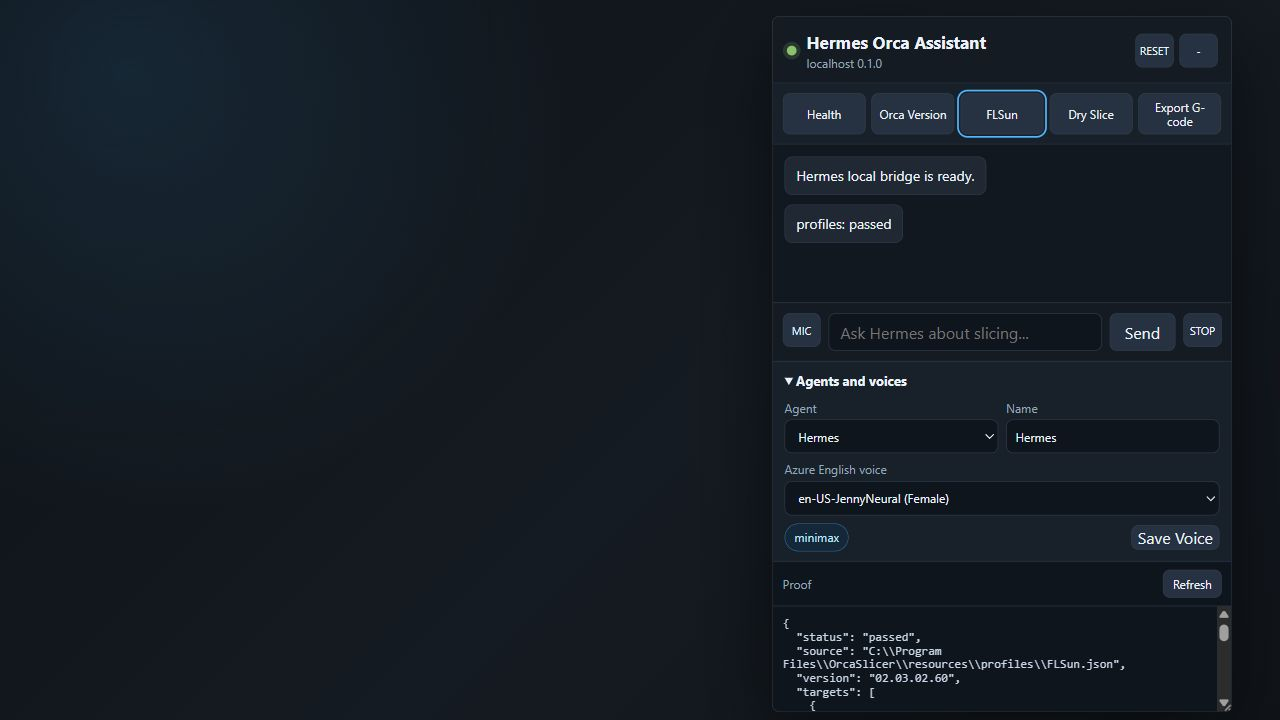
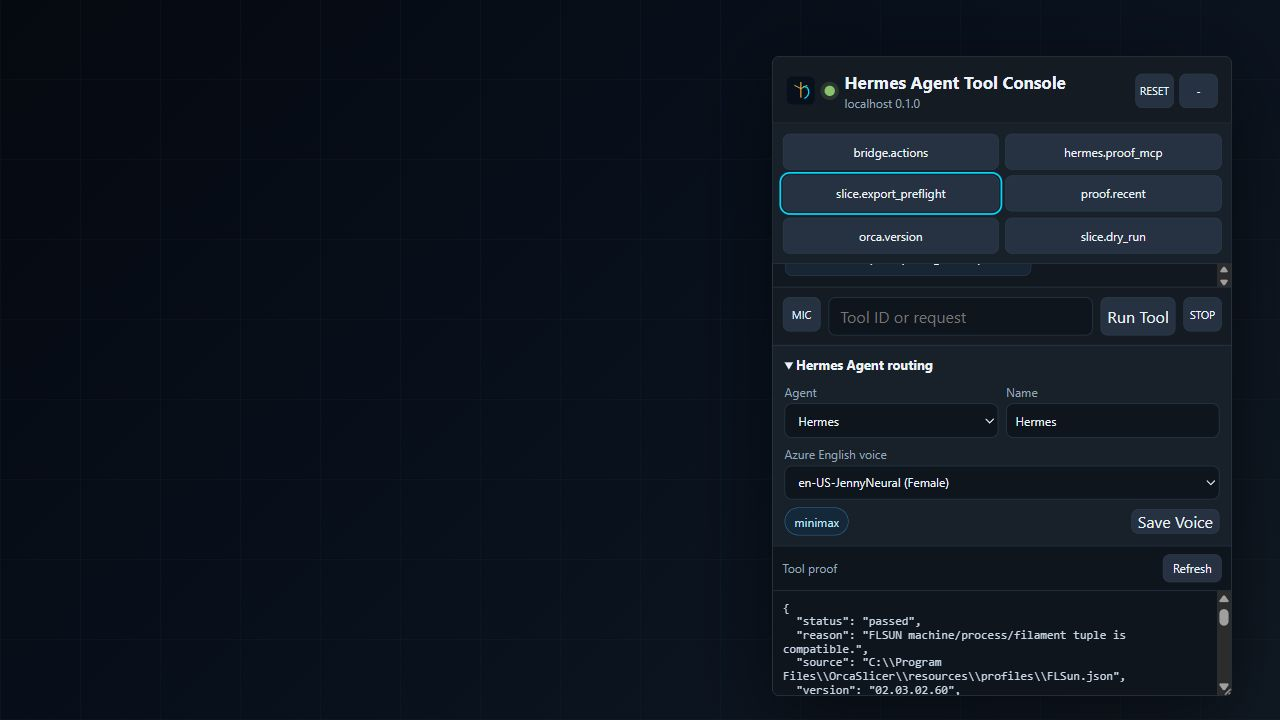
Integrate HermesSlicer brand system

diff --git a/web/styles.css b/web/styles.css
@@ -1,14 +1,14 @@
 :root {
   color-scheme: dark;
-  --bg: #101419;
-  --panel: #171d24;
-  --panel-soft: #202833;
-  --line: #33404e;
+  --bg: #08101c;
+  --panel: #101923;
+  --panel-soft: #172534;
+  --line: #2b4052;
   --text: #edf3fa;
   --muted: #95a7b9;
-  --accent: #4fb6ff;
+  --accent: #00d8ff;
   --accent-strong: #8ac26d;
-  --warning: #f2b84b;
+  --warning: #f7b93e;
   --danger: #ff6b73;
 }
 
@@ -25,8 +25,10 @@ body {
   margin: 0;
   overflow: hidden;
   background:
-    radial-gradient(circle at 10% 10%, rgba(79, 182, 255, 0.12), transparent 28rem),
-    linear-gradient(135deg, #0d1116 0%, #151b22 55%, #101419 100%);
+    linear-gradient(90deg, rgba(0, 216, 255, 0.035) 1px, transparent 1px),
+    linear-gradient(0deg, rgba(247, 185, 62, 0.025) 1px, transparent 1px),
+    linear-gradient(135deg, #050910 0%, var(--bg) 48%, #101923 100%);
+  background-size: 80px 80px, 80px 80px, auto;
   color: var(--text);
   font-family: "Segoe UI", Arial, sans-serif;
 }
@@ -61,8 +63,10 @@ button:hover {
   place-items: center;
   padding: 20px;
   background:
-    radial-gradient(circle at 50% 52%, rgba(4, 221, 217, 0.2), transparent 34rem),
-    linear-gradient(135deg, #050a0d 0%, #101820 48%, #070a0f 100%);
+    linear-gradient(90deg, rgba(0, 216, 255, 0.055) 1px, transparent 1px),
+    linear-gradient(0deg, rgba(247, 185, 62, 0.04) 1px, transparent 1px),
+    linear-gradient(135deg, #03070d 0%, var(--bg) 52%, #0d1520 100%);
+  background-size: 100px 100px, 100px 100px, auto;
   color: var(--text);
 }
 
@@ -76,8 +80,8 @@ button:hover {
 
 .auth-logo {
   display: block;
-  width: min(880px, 94vw);
-  max-height: min(68vh, 720px);
+  width: min(980px, 94vw);
+  max-height: min(72vh, 760px);
   object-fit: contain;
   filter: drop-shadow(0 24px 70px rgba(0, 0, 0, 0.58));
 }
@@ -93,15 +97,15 @@ button:hover {
 .auth-shell button {
   width: min(340px, 100%);
   height: 48px;
-  border-color: rgba(242, 184, 75, 0.9);
-  background: linear-gradient(135deg, #09777c 0%, #153c46 50%, #8a6820 100%);
+  border-color: rgba(247, 185, 62, 0.9);
+  background: linear-gradient(135deg, #066778 0%, #123644 50%, #8a6820 100%);
   color: #ffffff;
   font-weight: 650;
   box-shadow: 0 12px 34px rgba(0, 0, 0, 0.34);
 }
 
 .auth-shell button:hover {
-  border-color: #f2b84b;
+  border-color: var(--warning);
   background: linear-gradient(135deg, #0b8b90 0%, #174a55 50%, #9a7525 100%);
 }
 
@@ -154,6 +158,12 @@ pre:focus-visible {
   align-items: center;
   min-width: 0;
   gap: 10px;
+}
+
+.brand-mark {
+  width: 28px;
+  height: 28px;
+  flex: 0 0 auto;
 }
 
 .brand h1 {

diff --git a/web/index.html b/web/index.html
@@ -4,6 +4,9 @@
     <meta charset="utf-8">
     <meta name="viewport" content="width=device-width, initial-scale=1">
     <title>HermesSlicer</title>
+    <link rel="icon" href="/assets/hermes-orca-minimal.svg" type="image/svg+xml">
+    <link rel="icon" href="/assets/hermes-slicer-icon-32.png" sizes="32x32" type="image/png">
+    <link rel="apple-touch-icon" href="/assets/hermes-slicer-icon-256.png">
     <link rel="stylesheet" href="/styles.css">
   </head>
   <body class="session-locked">
@@ -19,6 +22,7 @@
     <main id="panel" class="panel" aria-label="Hermes Agent tool console">
       <header id="dragHandle" class="panel-header" tabindex="0" aria-label="Panel drag handle. Use arrow keys to move the panel.">
         <div class="brand">
+          <img class="brand-mark" src="/assets/hermes-orca-minimal.svg" alt="" aria-hidden="true">
           <span id="statusDot" class="status-dot" aria-hidden="true"></span>
           <div>
             <h1>Hermes Agent Tool Console</h1>

diff --git a/hermes_slicer/bridge.py b/hermes_slicer/bridge.py
@@ -45,7 +45,8 @@ class BridgeHandler(BaseHTTPRequestHandler):
         )
 
     def end_headers(self) -> None:
-        self.send_header("Access-Control-Allow-Origin", "http://127.0.0.1:8765")
+        bind, port = _server_bind_port(self.server)
+        self.send_header("Access-Control-Allow-Origin", f"http://{bind}:{port}")
         self.send_header("Access-Control-Allow-Methods", "GET, POST, OPTIONS")
         self.send_header("Access-Control-Allow-Headers", "Content-Type")
         self.send_header("X-Content-Type-Options", "nosniff")
@@ -58,7 +59,8 @@ class BridgeHandler(BaseHTTPRequestHandler):
     def do_GET(self) -> None:
         route = urlparse(self.path).path
         if route == "/health":
-            payload = health_payload()
+            bind, port = _server_bind_port(self.server)
+            payload = health_payload(bind=bind, port=port)
             payload["secrets"] = secret_presence_summary()
             write_json(ROOT / "proof" / "runtime" / "bridge-health.json", payload)
             log_event("bridge", "bridge.health", "passed", outputs=payload, proof_files=["proof/runtime/bridge-health.json"])
@@ -101,7 +103,8 @@ class BridgeHandler(BaseHTTPRequestHandler):
         try:
             body = self.read_json_body()
             if route == "/api/action":
-                payload, status = dispatch_action(body)
+                bind, port = _server_bind_port(self.server)
+                payload, status = dispatch_action(body, bind=bind, port=port)
                 proof_status = "passed" if 200 <= status < 300 else "failed"
                 if payload.get("status") in {"blocked", "warning"}:
                     proof_status = str(payload["status"])
@@ -130,7 +133,8 @@ class BridgeHandler(BaseHTTPRequestHandler):
                 self.respond_json(payload, status=code)
                 return
             if route in {"/api/hermes-agent/tool-request", "/api/chat/message"}:
-                payload = hermes_agent_tool_request(body)
+                bind, port = _server_bind_port(self.server)
+                payload = hermes_agent_tool_request(body, bind=bind, port=port)
                 action_name = "hermes_agent.tool_request" if route != "/api/chat/message" else "hermes_agent.tool_request.compat"
                 log_event("panel", action_name, payload["status"], inputs=body, outputs=payload)
                 self.respond_json(payload)
@@ -201,7 +205,7 @@ def secret_presence_summary() -> dict[str, object]:
     }
 
 
-def dispatch_action(body: dict[str, object]) -> tuple[dict[str, object], int]:
+def dispatch_action(body: dict[str, object], bind: str = DEFAULT_BIND, port: int = DEFAULT_PORT) -> tuple[dict[str, object], int]:
     action = str(body.get("action", "")).strip()
     payload = body.get("payload", {})
     if not action:
@@ -209,7 +213,7 @@ def dispatch_action(body: dict[str, object]) -> tuple[dict[str, object], int]:
     if action not in ACTION_ROUTES:
         return {"status": "failed", "error": f"invalid action: {action}", "allowed": sorted(ACTION_ROUTES)}, 400
     if action == "bridge.health":
-        return health_payload(), 200
+        return health_payload(bind=bind, port=port), 200
     if action == "bridge.actions":
         return {"actions": ALLOWED_ACTIONS}, 200
     if action == "orca.version":
@@ -237,7 +241,7 @@ def dispatch_action(body: dict[str, object]) -> tuple[dict[str, object], int]:
         return result, 200 if result["status"] in {"passed", "blocked"} else 500
     if action == "hermes_agent.tool_request":
         request_payload = payload if isinstance(payload, dict) else {}
-        return hermes_agent_tool_request(request_payload), 200
+        return hermes_agent_tool_request(request_payload, bind=bind, port=port), 200
     if action == "tts.speak":
         request_payload = payload if isinstance(payload, dict) else {}
         result = tts_speak(request_payload)
@@ -245,14 +249,14 @@ def dispatch_action(body: dict[str, object]) -> tuple[dict[str, object], int]:
     return {"status": "failed", "error": "unhandled action"}, 500
 
 
-def hermes_agent_tool_request(body: dict[str, object]) -> dict[str, object]:
+def hermes_agent_tool_request(body: dict[str, object], bind: str = DEFAULT_BIND, port: int = DEFAULT_PORT) -> dict[str, object]:
     message = str(body.get("message", "")).strip()
     agent = str(body.get("agent", "")).strip() or "orchestrator"
     requested_action = str(body.get("action", "")).strip()
     lower = message.lower()
     explicit_action = requested_action or _extract_explicit_action(message)
     if explicit_action:
-        result, status = dispatch_action({"action": explicit_action, "payload": body.get("payload", {})})
+        result, status = dispatch_action({"action": explicit_action, "payload": body.get("payload", {})}, bind=bind, port=port)
         return {
             "status": _normalized_tool_status(result, status),
             "reply": f"Hermes Agent routed tool `{explicit_action}`.",
@@ -304,7 +308,7 @@ def hermes_agent_tool_request(body: dict[str, object]) -> dict[str, object]:
             "result": {"agents": load_agents()},
         }
     if "health" in lower:
-        return _tool_request_result(agent, requested_action or message, "bridge.health", "I ran the HermesSlicer bridge health tool.", health_payload())
+        return _tool_request_result(agent, requested_action or message, "bridge.health", "I ran the HermesSlicer bridge health tool.", health_payload(bind=bind, port=port))
     if "version" in lower or "orca" in lower:
         return _tool_request_result(agent, requested_action or message, "orca.version", "I ran the safe Orca executable probe tool.", orca_version_check())
     if "preflight" in lower:
@@ -384,6 +388,11 @@ def _extract_explicit_action(message: str) -> str | None:
         if part in allowed:
             return part
     return None
+
+
+def _server_bind_port(server: object) -> tuple[str, int]:
+    address = getattr(server, "server_address", (DEFAULT_BIND, DEFAULT_PORT))
+    return str(address[0]), int(address[1])
 
 
 def hermes_proof_mcp_status() -> dict[str, object]:

diff --git a/tests/test_ui_static.py b/tests/test_ui_static.py
@@ -1,10 +1,12 @@
 from __future__ import annotations
 
+import json
 import unittest
 from pathlib import Path
 
 ROOT = Path(__file__).resolve().parents[1]
 WEB = ROOT / "web"
+CONFIG = ROOT / "config"
 
 
 class UiStaticTests(unittest.TestCase):
@@ -14,12 +16,38 @@ class UiStaticTests(unittest.TestCase):
         self.assertIn('<h1 class="sr-only">Hermes Slicer</h1>', html)
         self.assertIn("/assets/hermes-slicer-login.png", html)
         self.assertTrue((WEB / "assets" / "hermes-slicer-login.png").exists())
+        self.assertIn("/assets/hermes-orca-minimal.svg", html)
+        self.assertIn("/assets/hermes-slicer-icon-32.png", html)
+        self.assertIn("/assets/hermes-slicer-icon-256.png", html)
         self.assertIn("Continue to Hermes Tools", html)
         self.assertIn("Tool ID or request", html)
 
+    def test_brand_assets_are_present(self) -> None:
+        for asset in (
+            "hermes-slicer-login.png",
+            "readme-hero.png",
+            "hermes-orca-primary.svg",
+            "hermes-orca-minimal.svg",
+            "hermes-slicer-icon-32.png",
+            "hermes-slicer-icon-256.png",
+        ):
+            path = WEB / "assets" / asset
+            self.assertTrue(path.exists(), asset)
+            self.assertGreater(path.stat().st_size, 0, asset)
+
+        readme = (ROOT / "README.md").read_text(encoding="utf-8")
+        self.assertIn("web/assets/readme-hero.png", readme)
+
+    def test_css_uses_brand_tokens(self) -> None:
+        tokens = json.loads((CONFIG / "brand_tokens.json").read_text(encoding="utf-8"))
+        css = (WEB / "styles.css").read_text(encoding="utf-8")
+        self.assertIn(f"--bg: {tokens['background_primary']};", css)
+        self.assertIn(f"--accent: {tokens['accent_cyan']};", css)
+        self.assertIn(f"--warning: {tokens['accent_gold']};", css)
+
     def test_web_surface_does_not_ship_jusprin_branding(self) -> None:
-        for path in WEB.glob("*"):
-            if path.suffix not in {".html", ".js", ".css"}:
+        for path in [*WEB.glob("*"), *WEB.glob("assets/*.svg")]:
+            if path.suffix not in {".html", ".js", ".css", ".svg"}:
                 continue
             content = path.read_text(encoding="utf-8")
             self.assertNotIn("JusPrin", content)

diff --git a/tests/test_bridge_core.py b/tests/test_bridge_core.py
@@ -61,6 +61,16 @@ class BridgeCoreTests(unittest.TestCase):
         self.assertEqual(status, 200)
         self.assertEqual(payload["bind"], "127.0.0.1")
 
+    def test_dispatch_health_reports_runtime_port(self) -> None:
+        payload, status = dispatch_action({"action": "bridge.health"}, bind="127.0.0.1", port=8766)
+        self.assertEqual(status, 200)
+        self.assertEqual(payload["port"], 8766)
+
+    def test_tool_request_health_reports_runtime_port(self) -> None:
+        payload, status = dispatch_action({"action": "hermes_agent.tool_request", "payload": {"message": "health"}}, port=8766)
+        self.assertEqual(status, 200)
+        self.assertEqual(payload["result"]["port"], 8766)
+
     def test_flsun_inventory_shape(self) -> None:
         payload = flsun_profile_inventory()
         self.assertIn(payload["status"], {"passed", "blocked"})

diff --git a/hermes_slicer/config.py b/hermes_slicer/config.py
@@ -213,14 +213,14 @@ def save_agents(agents: list[dict[str, Any]]) -> None:
     (LOCAL_DIR / "agents.json").write_text(json.dumps({"agents": agents}, indent=2) + "\n", encoding="utf-8")
 
 
-def health_payload() -> dict[str, Any]:
+def health_payload(bind: str = DEFAULT_BIND, port: int = DEFAULT_PORT) -> dict[str, Any]:
     executables = discover_executables()
     return {
         "status": "ok",
         "name": "HermesSlicer Local Bridge",
         "version": __version__,
-        "bind": DEFAULT_BIND,
-        "port": DEFAULT_PORT,
+        "bind": bind,
+        "port": port,
         "executables": {name: bool(path) for name, path in executables.items()},
         "actions": [action["id"] for action in ALLOWED_ACTIONS],
         "proof_ledger": "proof/ledger.jsonl",

diff --git a/BRAND.md b/BRAND.md
@@ -1,0 +1,12 @@
+# HermesSlicer Brand Assets
+
+HermesSlicer V1 uses the Hermes + Orca unified brand system for visible project surfaces. Only the assets needed by the current proofable stack are imported:
+
+- `web/assets/hermes-slicer-login.png` for the local-session login gate.
+- `web/assets/readme-hero.png` for the GitHub README hero.
+- `web/assets/hermes-orca-minimal.svg` for favicon and compact panel branding.
+- `web/assets/hermes-orca-primary.svg` as the full vector mark for future app packaging surfaces.
+- `web/assets/hermes-slicer-icon-32.png` and `web/assets/hermes-slicer-icon-256.png` for PNG favicon fallback and touch/app icon metadata.
+- `config/brand_tokens.json` for the dark background, cyan accent, and gold accent tokens enforced by UI tests.
+
+Unused source-pack extras stay out of the V1 tree until a concrete runtime or packaging surface needs them.

diff --git a/README.md b/README.md
@@ -1,5 +1,7 @@
 # HermesSlicer
 
+![HermesSlicer brand hero](web/assets/readme-hero.png)
+
 HermesSlicer V1 is a local sidecar for OrcaSlicer: a dark floating web panel, a localhost-only bridge, safe Orca/Prusa executable checks, FLSUN profile preflight, Hermes Agent tooling, Azure English voice assignment, and sanitized proof logs.
 
 ## Run
@@ -31,6 +33,10 @@ Redaction scan:
 ```powershell
 python scripts\redaction_scan.py .
 ```
+
+## Brand
+
+HermesSlicer V1 uses the curated Hermes + Orca brand pack for the login gate, README hero, favicon/app icon, and compact panel mark. See `BRAND.md`.
 
 ## Upstream Bases
 

diff --git a/proof/screenshots/README.md b/proof/screenshots/README.md
@@ -5,5 +5,7 @@ Captured with the Codex in-app browser on 2026-05-16.
 - `panel-open.png`
 - `panel-flsun.png`
 - `panel-hidden.png`
+- `login-hermes-slicer.jpg`
+- `hermes-agent-tools.jpg`
 
-Screenshots are local UI only and contain no credential values. `scripts/verify_screenshots.py` verifies the PNG signature for each file.
+Screenshots are local UI only and contain no credential values. `scripts/verify_screenshots.py` verifies the PNG/JPEG signature for each file.
